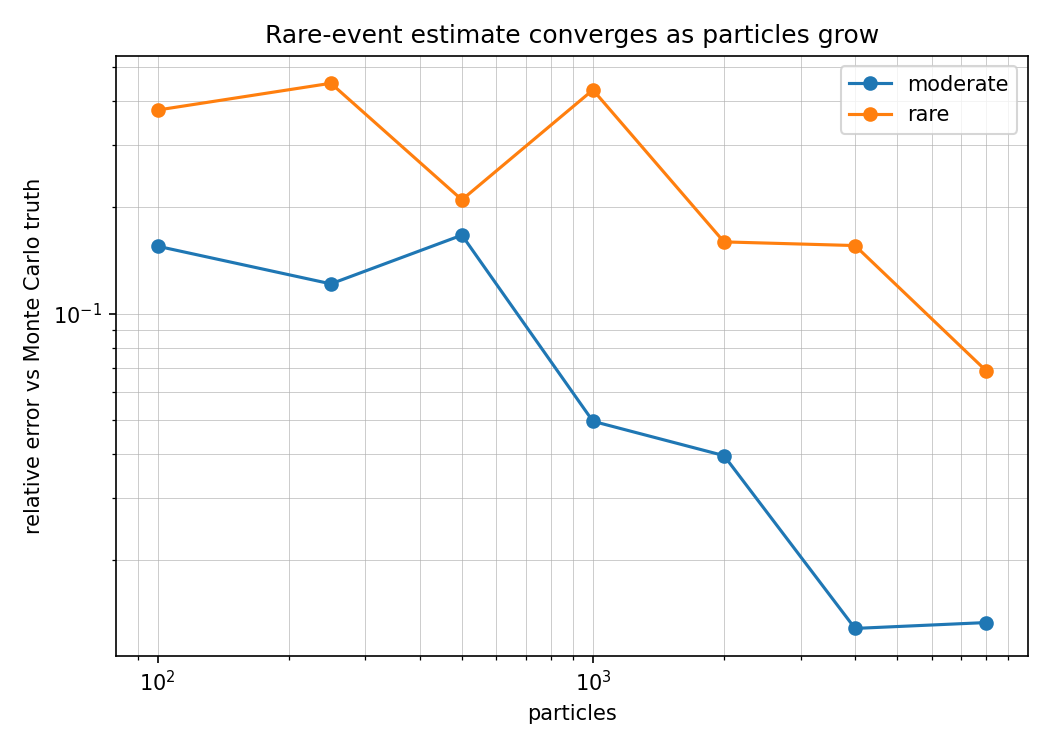
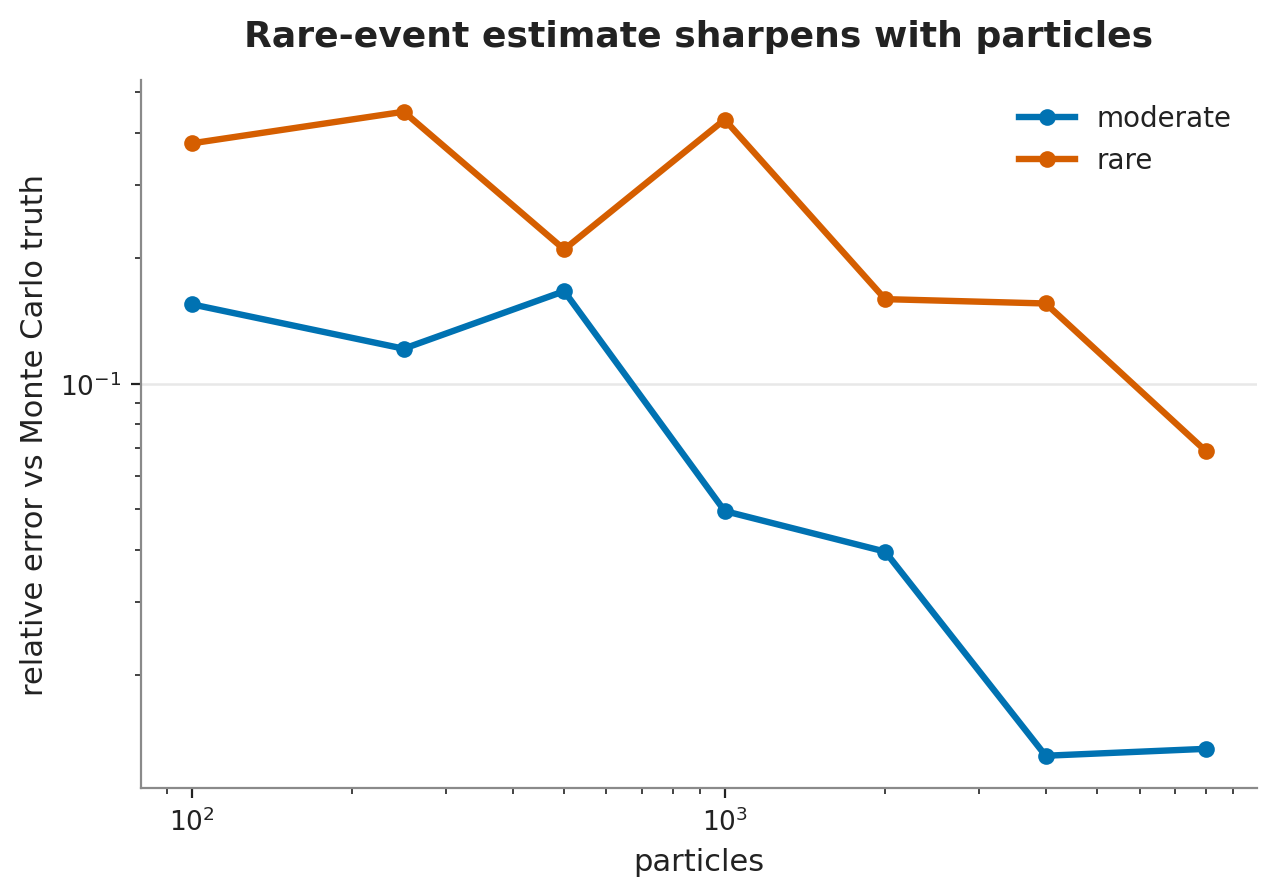
redraw every benchmark figure with the dominance framing

diff --git a/benchmarks/runners/plot.py b/benchmarks/runners/plot.py
@@ -1,17 +1,11 @@
-"""Plot the benchmark results.
-
-Reads every record under benchmarks/results, groups by the question a
-measurement answers, and writes the figures next to the JSON. Run as
-`python plot.py` from anywhere.
-"""
-
 import json
 import os
 
 import matplotlib
-
 matplotlib.use("Agg")
 import matplotlib.pyplot as plt
+
+import style
 
 HERE = os.path.dirname(os.path.abspath(__file__))
 RESULTS = os.path.normpath(os.path.join(HERE, "..", "results"))
@@ -24,185 +18,152 @@ def load():
                 records.extend(json.loads(line) for line in handle if line.strip())
     return records
 
-def scalability(records):
-    rows = [r for r in records if r.get("benchmark") == "scalability/length"]
-    if not rows:
-        return
-    fig, ax = plt.subplots(figsize=(7, 5))
-    series = {}
-    for r in rows:
-        series.setdefault((r["tool"], r["question"]), []).append(
-            (r["size"], r["timing"]["mean_ms"])
-        )
-    for (tool, question), points in sorted(series.items()):
-        points.sort()
-        ax.plot(
-            [p[0] for p in points],
-            [p[1] for p in points],
-            marker="o",
-            label=f"{tool} ({question})",
-        )
-    ax.set_xscale("log")
-    ax.set_yscale("log")
-    ax.set_xlabel("trace length (samples)")
-    ax.set_ylabel("time per evaluation (ms)")
-    ax.set_title("Robustness cost versus trace length")
-    ax.grid(True, which="both", linewidth=0.3)
-    ax.legend()
-    fig.tight_layout()
-    out = os.path.join(RESULTS, "scalability.png")
-    fig.savefig(out, dpi=150)
+def save(fig, name):
+    out = os.path.join(RESULTS, name)
+    fig.savefig(out)
     plt.close(fig)
     print("wrote", out)
 
-def deterministic(records):
-    rows = [
-        r
-        for r in records
-        if r.get("benchmark") == "deterministic" and r.get("question") == "full_signal"
-    ]
+def length_series(records, tool, lang, question, benchmark="scalability/length"):
+    rows = [r for r in records if r.get("tool") == tool and r.get("language") == lang
+            and r.get("benchmark") == benchmark and r.get("question") == question]
+    pts = sorted((r["size"], r["timing"]["mean_ms"]) for r in rows)
+    return [p[0] for p in pts], [p[1] for p in pts]
+
+def discrete_offline(records):
+    sx, sy = length_series(records, "sentil", "full_signal")
+    rx, ry = length_series(records, "rtamt", "full_signal")
+    if not sx or not rx:
+        return
+    fig, ax = plt.subplots()
+    ax.plot(rx, ry, color=style.TOOL["rtamt"], marker="s", label="RTAMT")
+    style.hero_line(ax, sx, sy, "SENTIL")
+    shared = sorted(set(sx) & set(rx))[-1]
+    style.annotate_speedup(ax, shared, dict(zip(sx, sy))[shared], dict(zip(rx, ry))[shared],
+                           f"{dict(zip(rx, ry))[shared] / dict(zip(sx, sy))[shared]:.0f}x")
+    ax.set_xscale("log"); ax.set_yscale("log")
+    ax.set_xlabel("trace length (samples)")
+    ax.set_ylabel("time for the whole robustness signal (ms)")
+    ax.set_title("Offline discrete STL: SENTIL vs RTAMT")
+    ax.legend(loc="upper left")
+    save(fig, "discrete_offline.png")
+
+def dense_offline(records):
+    sx, sy = length_series(records, "sentil", "monitoring")
+    bx, by = length_series(records, "breach", "monitoring")
+    if not sx or not bx:
+        return
+    fig, ax = plt.subplots()
+    ax.plot(bx, by, color=style.TOOL["breach"], marker="s", label="Breach (dense-time)")
+    style.hero_line(ax, sx, sy, "SENTIL")
+    shared = sorted(set(sx) & set(bx))[-1]
+    style.annotate_speedup(ax, shared, dict(zip(sx, sy))[shared], dict(zip(bx, by))[shared],
+                           f"{dict(zip(bx, by))[shared] / dict(zip(sx, sy))[shared]:.0f}x")
+    ax.set_xscale("log"); ax.set_yscale("log")
+    ax.set_xlabel("trace length (samples)")
+    ax.set_ylabel("time to answer the monitoring query (ms)")
+    ax.set_title("Dense-time monitoring: SENTIL vs Breach")
+    ax.legend(loc="center left")
+    save(fig, "dense_offline.png")
+
+def dense_cost(records):
+    dense = sorted((r["size"], r["timing"]["mean_ms"]) for r in records if r.get("benchmark") == "dense/length")
+    disc = length_series(records, "sentil", "rust", "full_signal")
+    if not dense or not disc[0]:
+        return
+    fig, ax = plt.subplots()
+    ax.plot([p[0] for p in dense], [p[1] for p in dense], color=style.TOOL["sentil"], marker="o", label="dense time")
+    ax.plot(disc[0], disc[1], color=style.FAINT, marker="o", label="discrete grid")
+    ax.set_xscale("log"); ax.set_yscale("log")
+    ax.set_xlabel("trace length (samples)")
+    ax.set_ylabel("time for the whole robustness signal (ms)")
+    ax.set_title("Cost of dense over discrete time, both linear")
+    ax.legend(loc="upper left")
+    save(fig, "dense_cost.png")
+
+def streaming_online(records):
+    rows = [r for r in records if r.get("benchmark") == "streaming"]
     if not rows:
         return
-    formulas = sorted({r["formula"] for r in rows})
-    tools = sorted({r["tool"] for r in rows})
-    fig, ax = plt.subplots(figsize=(9, 5))
-    width = 0.8 / max(len(tools), 1)
-    for i, tool in enumerate(tools):
-        by_formula = {r["formula"]: r["timing"]["mean_ms"] for r in rows if r["tool"] == tool}
-        xs = [j + i * width for j in range(len(formulas))]
-        ax.bar(xs, [by_formula.get(f, 0.0) for f in formulas], width=width, label=tool)
+    us = {r["language"]: r["timing"]["mean_ms"] * 1000.0 for r in rows}
+    order = sorted(us, key=us.get)
+    colors = [style.TOOL["sentil"] if lang in ("rust", "c") else style.FAINT for lang in order]
+    fig, ax = plt.subplots()
+    bars = ax.bar(order, [us[l] for l in order], color=colors, width=0.66)
+    ax.axhline(100.0, color=style.TOOL["rtamt"], linestyle=(0, (4, 3)), linewidth=1.1)
+    ax.text(len(order) - 0.5, 108, "10 kHz real-time budget (100 us)", ha="right", va="bottom",
+            fontsize=9, color=style.INK)
     ax.set_yscale("log")
-    ax.set_xticks([j + width * (len(tools) - 1) / 2 for j in range(len(formulas))])
-    ax.set_xticklabels([f"phi{j + 1}" for j in range(len(formulas))])
+    ax.set_ylabel("per-sample update (us)")
+    ax.set_title("Online streaming cost per sample, every binding")
+    for b, l in zip(bars, order):
+        ax.text(b.get_x() + b.get_width() / 2, us[l] * 1.12, f"{us[l]:.2f}", ha="center", va="bottom", fontsize=8.5, color=style.INK)
+    save(fig, "streaming_online.png")
+
+def scaling(records):
+    fx, fy = length_series(records, "sentil", "rust", "full_signal")
+    mx, my = length_series(records, "sentil", "rust", "monitoring")
+    if not fx or not mx:
+        return
+    fig, ax = plt.subplots()
+    ax.plot(fx, fy, color=style.FAINT, marker="o", label="whole signal (linear)")
+    style.hero_line(ax, mx, my, "monitoring query (flat)")
+    ax.set_xscale("log"); ax.set_yscale("log")
+    ax.set_xlabel("trace length (samples)")
     ax.set_ylabel("time per evaluation (ms)")
-    ax.set_title("Full-signal robustness on the oracle formulas")
-    ax.grid(True, axis="y", which="both", linewidth=0.3)
-    ax.legend()
-    fig.tight_layout()
-    out = os.path.join(RESULTS, "deterministic.png")
-    fig.savefig(out, dpi=150)
-    plt.close(fig)
-    print("wrote", out)
+    ax.legend(loc="center left")
+    save(fig, "scaling.png")
+
+def memory(records):
+    rows = sorted((r["size"], r["peak_rss_bytes"] / 1e6) for r in records if r.get("benchmark") == "memory/length")
+    if not rows:
+        return
+    fig, ax = plt.subplots()
+    style.hero_line(ax, [p[0] for p in rows], [p[1] for p in rows], "resident memory")
+    ax.set_xscale("log")
+    ax.set_ylim(0, max(p[1] for p in rows) * 2.2)
+    ax.set_xlabel("samples streamed")
+    ax.set_ylabel("peak resident memory (MB)")
+    ax.set_title("Memory is set by the window, not the stream length")
+    save(fig, "memory.png")
 
 THROUGHPUT_MODELS = ("single_step", "always_ten", "eventually_ten")
 
 def smc_throughput(records):
-    rows = [r for r in records if "device" in r and r["model"] in THROUGHPUT_MODELS]
+    rows = [r for r in records if "device" in r and r.get("model") in THROUGHPUT_MODELS and "throughput_per_s" in r]
     if not rows:
         return
-    fig, ax = plt.subplots(figsize=(7, 5))
     series = {}
     for r in rows:
-        series.setdefault((r["device"], r["model"]), []).append(
-            (r["samples"], r["throughput_per_s"] / 1e6)
-        )
-    for (device, model), points in sorted(series.items()):
-        points.sort()
-        ax.plot(
-            [p[0] for p in points],
-            [p[1] for p in points],
-            marker="o",
-            label=f"{device}: {model}",
-        )
-    ax.set_xscale("log")
+        series.setdefault(r["device"], []).append((r["samples"], r["throughput_per_s"] / 1e6))
+    fig, ax = plt.subplots()
+    color = {"gpu": style.TOOL["sentil"], "cpu": style.FAINT}
+    for device, pts in sorted(series.items()):
+        agg = {}
+        for n, t in pts:
+            agg.setdefault(n, []).append(t)
+        xs = sorted(agg)
+        ys = [max(agg[n]) for n in xs]
+        ax.plot(xs, ys, color=color.get(device, style.INK), marker="o", label=device.upper())
+    ax.set_xscale("log"); ax.set_yscale("log")
     ax.set_xlabel("samples")
-    ax.set_ylabel("throughput (million realization-steps/s)")
-    ax.set_title("Statistical model checking throughput, CPU versus GPU")
-    ax.grid(True, which="both", linewidth=0.3)
-    ax.legend()
-    fig.tight_layout()
-    out = os.path.join(RESULTS, "smc_throughput.png")
-    fig.savefig(out, dpi=150)
-    plt.close(fig)
-    print("wrote", out)
+    ax.set_ylabel("throughput (million realizations/s)")
+    ax.set_title("Statistical model checking throughput, GPU vs CPU")
+    ax.legend(loc="lower right")
+    save(fig, "smc_throughput.png")
 
 def smc_accuracy(records):
-    rows = [
-        r
-        for r in records
-        if "device" in r and r.get("ground_truth") is not None and r["samples"] <= 100_000
-    ]
+    rows = [r for r in records if "device" in r and r.get("ground_truth") is not None and r["samples"] <= 100_000]
     if not rows:
         return
-    fig, ax = plt.subplots(figsize=(6, 6))
-    ax.plot([0, 1], [0, 1], linewidth=0.8, color="gray")
-    ax.scatter([r["ground_truth"] for r in rows], [r["probability"] for r in rows], s=20)
+    fig, ax = plt.subplots(figsize=(5.4, 5.4))
+    ax.plot([0, 1], [0, 1], color=style.FAINT, linewidth=1.0, zorder=1)
+    ax.scatter([r["ground_truth"] for r in rows], [r["probability"] for r in rows],
+               s=34, color=style.TOOL["sentil"], edgecolor="white", linewidth=0.5, zorder=3)
     ax.set_xlabel("known probability")
-    ax.set_ylabel("estimated probability")
-    ax.set_title("Estimate versus closed-form truth")
-    ax.grid(True, linewidth=0.3)
-    fig.tight_layout()
-    out = os.path.join(RESULTS, "smc_accuracy.png")
-    fig.savefig(out, dpi=150)
-    plt.close(fig)
-    print("wrote", out)
-
-def cross_language(records):
-    rows = [r for r in records if r.get("benchmark") == "streaming"]
-    if not rows:
-        return
-    by_lang = {}
-    for r in rows:
-        by_lang[r["language"]] = r["timing"]["mean_ms"] * 1000.0
-    order = sorted(by_lang, key=by_lang.get)
-    fig, ax = plt.subplots(figsize=(7, 5))
-    ax.bar(order, [by_lang[l] for l in order])
-    ax.set_yscale("log")
-    ax.set_ylabel("per-sample update (us)")
-    ax.set_title("Streaming cost per sample, across bindings")
-    ax.grid(True, axis="y", which="both", linewidth=0.3)
-    fig.tight_layout()
-    out = os.path.join(RESULTS, "streaming.png")
-    fig.savefig(out, dpi=150)
-    plt.close(fig)
-    print("wrote", out)
-
-def dense(records):
-    d = [(r["size"], r["timing"]["mean_ms"]) for r in records if r.get("benchmark") == "dense/length"]
-    disc = [
-        (r["size"], r["timing"]["mean_ms"])
-        for r in records
-        if r.get("benchmark") == "scalability/length"
-        and r.get("tool") == "sentil"
-        and r.get("question") == "full_signal"
-    ]
-    if not d or not disc:
-        return
-    fig, ax = plt.subplots(figsize=(7, 5))
-    for points, label in ((sorted(d), "dense"), (sorted(disc), "discrete")):
-        ax.plot([p[0] for p in points], [p[1] for p in points], marker="o", label=label)
-    ax.set_xscale("log")
-    ax.set_yscale("log")
-    ax.set_xlabel("trace length (samples)")
-    ax.set_ylabel("full-signal time (ms)")
-    ax.set_title("Dense versus discrete robustness cost")
-    ax.grid(True, which="both", linewidth=0.3)
-    ax.legend()
-    fig.tight_layout()
-    out = os.path.join(RESULTS, "dense.png")
-    fig.savefig(out, dpi=150)
-    plt.close(fig)
-    print("wrote", out)
-
-def synthesis(records):
-    rows = [r for r in records if "mode" in r]
-    if not rows:
-        return
-    rows.sort(key=lambda r: (r["mode"], r["case"]))
-    labels = [r["case"] for r in rows]
-    fig, ax = plt.subplots(figsize=(8, 5))
-    colors = ["C0" if r["mode"] == "open_loop" else "C1" for r in rows]
-    ax.bar(range(len(rows)), [r["timing"]["mean_ms"] for r in rows], color=colors)
-    ax.set_xticks(range(len(rows)))
-    ax.set_xticklabels(labels, rotation=30, ha="right")
-    ax.set_ylabel("synthesis time (ms)")
-    ax.set_title("Open-loop synthesis and one online planning step")
-    ax.grid(True, axis="y", linewidth=0.3)
-    fig.tight_layout()
-    out = os.path.join(RESULTS, "synthesis.png")
-    fig.savefig(out, dpi=150)
-    plt.close(fig)
-    print("wrote", out)
+    ax.set_ylabel("SENTIL estimate")
+    ax.set_title("Estimate against closed-form truth")
+    save(fig, "smc_accuracy.png")
 
 def particles(records):
     rows = [r for r in records if r.get("benchmark") == "rare_event/particles"]
@@ -211,37 +172,41 @@ def particles(records):
     events = {}
     for r in rows:
         events.setdefault(r["event"], {}).setdefault(r["particles"], []).append(r["rel_error"])
-    fig, ax = plt.subplots(figsize=(7, 5))
-    for event, by_count in sorted(events.items()):
+    fig, ax = plt.subplots()
+    for i, (event, by_count) in enumerate(sorted(events.items())):
         counts = sorted(by_count)
         errs = [sum(by_count[c]) / len(by_count[c]) for c in counts]
-        ax.plot(counts, errs, marker="o", label=event)
-    ax.set_xscale("log")
-    ax.set_yscale("log")
+        ax.plot(counts, errs, color=style.CYCLE[i], marker="o", label=event)
+    ax.set_xscale("log"); ax.set_yscale("log")
     ax.set_xlabel("particles")
     ax.set_ylabel("relative error vs Monte Carlo truth")
-    ax.set_title("Rare-event estimate converges as particles grow")
-    ax.grid(True, which="both", linewidth=0.3)
-    ax.legend()
-    fig.tight_layout()
-    out = os.path.join(RESULTS, "particles.png")
-    fig.savefig(out, dpi=150)
-    plt.close(fig)
-    print("wrote", out)
+    ax.set_title("Rare-event estimate sharpens with particles")
+    ax.legend(loc="upper right")
+    save(fig, "particles.png")
+
+def synthesis(records):
+    rows = [r for r in records if "mode" in r]
+    if not rows:
+        return
+    rows.sort(key=lambda r: (r["mode"], r["case"]))
+    fig, ax = plt.subplots(figsize=(8.0, 4.6))
+    colors = [style.TOOL["sentil"] if r["mode"] == "open_loop" else style.CYCLE[2] for r in rows]
+    ax.bar(range(len(rows)), [r["timing"]["mean_ms"] for r in rows], color=colors, width=0.64)
+    ax.set_xticks(range(len(rows)))
+    ax.set_xticklabels([r["case"] for r in rows], rotation=25, ha="right")
+    ax.set_ylabel("synthesis time (ms)")
+    ax.set_title("Open-loop synthesis and one online planning step")
+    save(fig, "synthesis.png")
 
 def main():
+    style.apply()
     records = load()
     if not records:
         print("no results found under", RESULTS)
         return
-    scalability(records)
-    deterministic(records)
-    cross_language(records)
-    dense(records)
-    synthesis(records)
-    particles(records)
-    smc_throughput(records)
-    smc_accuracy(records)
+    for figure in (discrete_offline, dense_offline, dense_cost, streaming_online, scaling,
+                   memory, smc_throughput, smc_accuracy, particles, synthesis):
+        figure(records)
 
 if __name__ == "__main__":
     main()
